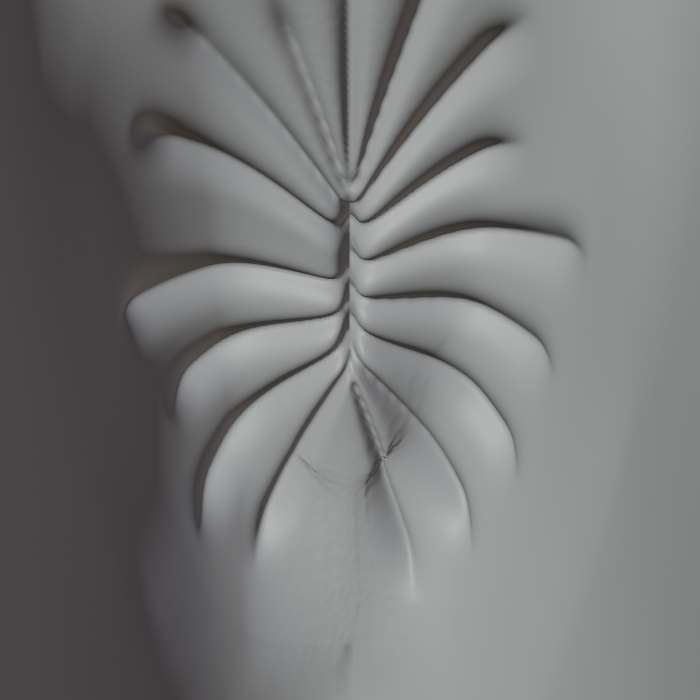
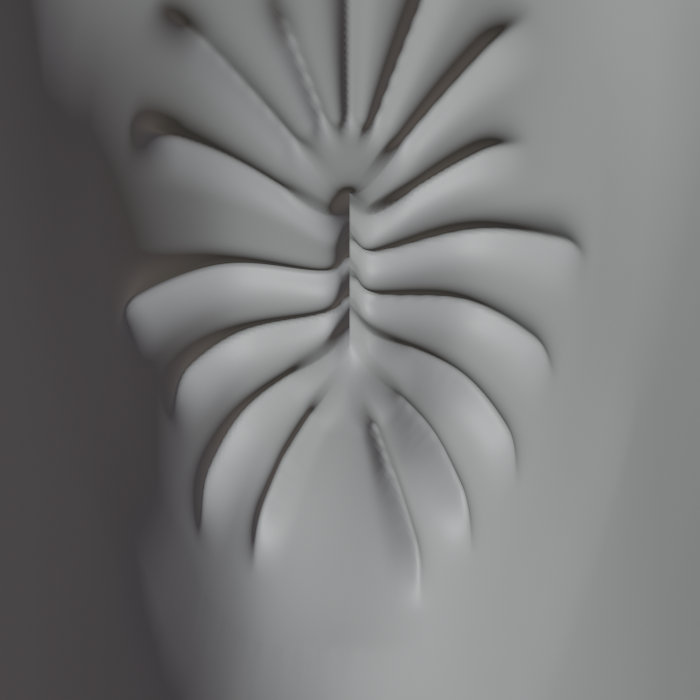
v4: remove the small perturbation beyond the back tip
It came from the shaped lift, computed point by point; the lift is now smoothed
over neighbouring vertices and applied in one consistent direction. Also: the
tip patch smoothing fades out gradually (no disc edge).

Claude-Session: https://claude.ai/code/session_01GkHsFACxGEb36mHX3TdUWk

diff --git a/scripts/build8_v4.py b/scripts/build8_v4.py
@@ -552,10 +552,18 @@ _ref = np.interp(_mx, [_mx[0], _mx[-1]], [_mh[0], _mh[-1]])
 _def = np.maximum(_ref - _mh, 0.0)
 _def = np.convolve(np.pad(_def, 6, mode="edge"), np.ones(13) / 13, mode="same")[6:-6]   # smooth the profile
 report["base_lift_mm"] = round(float(_def.max()), 2)
+_lift = np.zeros(len(_vl))
 for v, (r, th) in info.items():
     x_, y_ = ring_xy(max(r, RINGS[0]), th)
-    lift_mm = 0.5 * float(np.interp(x_, _mx, _def)) * (1 - ss(0.0, 2.5, abs(y_))) * (1 - ss(RINGS[-1] - 1.6, RINGS[-1] - 0.4, r))
-    base_pos[v] = base_pos[v] + bnorm[v] * (lift_mm / 1000)
+    _lift[_vi[v]] = 0.5 * float(np.interp(x_, _mx, _def)) * (1 - ss(0.0, 2.5, abs(y_))) * (1 - ss(RINGS[-1] - 1.6, RINGS[-1] - 0.4, r))
+# smooth the lift over neighbouring vertices before applying it (computed point by point it left thin jagged lines on
+# the fine mesh beyond the back tip), and apply it in one consistent direction
+for _ in range(80):
+    _acc = np.zeros_like(_lift)
+    np.add.at(_acc, E_[:, 0], _lift[E_[:, 1]]); np.add.at(_acc, E_[:, 1], _lift[E_[:, 0]])
+    _lift = 0.5 * _lift + 0.5 * _acc / np.maximum(deg, 1)
+for v in info:
+    base_pos[v] = base_pos[v] + n * (_lift[_vi[v]] / 1000)
 # relief along the (smooth) base normal: shallow funnel, creases fanning from the slit, closed slit groove
 # Profile across the slit (from your sketch): the skin rises gently towards the slit, peaks right at its lips, then
 # drops into a narrow V - no wide valley. The rise goes straight out of the cleft (along n): on the steep cheek walls
@@ -702,10 +710,13 @@ bm.verts.ensure_lookup_table(); bm.normal_update()
 # tidy the tips after the weld / zipper removal: smooth a small patch around each end of the fissure
 _tipc = [O + u * (SLIT / 1000), O - u * (SLIT / 1000)]
 _tipv = [v for v in bm.verts if v.is_valid and not v.is_boundary and min((v.co - t_).length for t_ in TIP_CO) < 0.0006]
-for _ in range(0):                                   # v3: off - its disc edge cut across the creases
+# v4: tidy the small perturbations right at the tips; the weight fades out smoothly (no disc edge)
+_tw = {v: 1 - ss(0.4, 1.2, min((v.co - t_).length for t_ in TIP_CO) * 1000) for v in bm.verts
+       if v.is_valid and not v.is_boundary and min((v.co - t_).length for t_ in TIP_CO) < 0.0012}
+for _ in range(40):
     bm.normal_update()
-    _new = {v: v.co + v.normal * (0.5 * (sum((e.other_vert(v).co for e in v.link_edges), Vector())
-                                          / len(v.link_edges) - v.co).dot(v.normal)) for v in _tipv}
+    _new = {v: v.co + v.normal * (0.5 * w_ * (sum((e.other_vert(v).co for e in v.link_edges), Vector())
+                                               / len(v.link_edges) - v.co).dot(v.normal)) for v, w_ in _tw.items()}
     for v, p_ in _new.items():
         v.co = p_
 _inner = [v for v in _tipv if min((v.co - t_).length for t_ in TIP_CO) < 0.0006]
